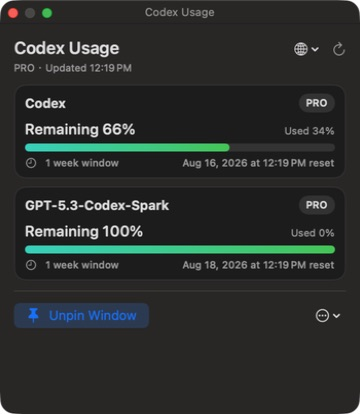
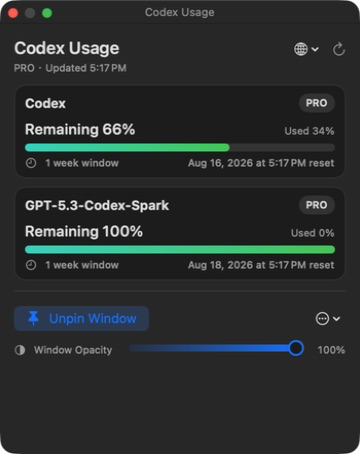
添加浮窗无极透明度控制

diff --git a/Sources/CodexUsageMonitor/Views.swift b/Sources/CodexUsageMonitor/Views.swift
@@ -75,7 +75,7 @@ struct UsagePopoverView: View {
             minWidth: presentation == .floatingPanel ? 360 : 400,
             idealWidth: 400,
             maxWidth: presentation == .floatingPanel ? .infinity : 400,
-            minHeight: 390,
+            minHeight: 430,
             maxHeight: presentation == .floatingPanel ? .infinity : nil,
             alignment: .topLeading
         )
@@ -111,44 +111,62 @@ struct UsagePopoverView: View {
     }
 
     private var controls: some View {
-        HStack(spacing: 8) {
-            Button {
-                if presentation == .menuBar {
-                    FloatingPanelController.shared.show(store: store)
-                } else {
-                    store.toggleWindowPinned()
+        VStack(spacing: 10) {
+            HStack(spacing: 8) {
+                Button {
+                    if presentation == .menuBar {
+                        FloatingPanelController.shared.show(store: store)
+                    } else {
+                        store.toggleWindowPinned()
+                    }
+                } label: {
+                    Label(
+                        presentation == .menuBar
+                            ? l10n.pinWindow
+                            : (store.isWindowPinned ? l10n.unpinWindow : l10n.pinWindow),
+                        systemImage: presentation == .menuBar
+                            ? "pin"
+                            : (store.isWindowPinned ? "pin.fill" : "pin.slash")
+                    )
                 }
-            } label: {
-                Label(
-                    presentation == .menuBar
-                        ? l10n.pinWindow
-                        : (store.isWindowPinned ? l10n.unpinWindow : l10n.pinWindow),
-                    systemImage: presentation == .menuBar
-                        ? "pin"
-                        : (store.isWindowPinned ? "pin.fill" : "pin.slash")
+                .foregroundStyle(
+                    presentation == .menuBar || store.isWindowPinned
+                        ? Color.accentColor
+                        : Color.secondary
                 )
-            }
-            .foregroundStyle(
-                presentation == .menuBar || store.isWindowPinned
-                    ? Color.accentColor
-                    : Color.secondary
-            )
-            Spacer()
-            Menu {
-                Button(l10n.quit) {
-                    NSApplication.shared.terminate(nil)
+                Spacer()
+                Menu {
+                    Button(l10n.quit) {
+                        NSApplication.shared.terminate(nil)
+                    }
+                    Divider()
+                    Button(l10n.uninstall, role: .destructive) {
+                        AppActions.confirmAndUninstall(language: store.language)
+                    }
+                } label: {
+                    Image(systemName: "ellipsis.circle")
                 }
-                Divider()
-                Button(l10n.uninstall, role: .destructive) {
-                    AppActions.confirmAndUninstall(language: store.language)
-                }
-            } label: {
-                Image(systemName: "ellipsis.circle")
+                .menuStyle(.borderlessButton)
+                .fixedSize()
             }
-            .menuStyle(.borderlessButton)
-            .fixedSize()
+
+            HStack(spacing: 9) {
+                Label(l10n.windowOpacity, systemImage: "circle.lefthalf.filled")
+                    .font(.caption)
+                    .foregroundStyle(.secondary)
+                    .fixedSize()
+                OpacityGradientSlider(
+                    value: store.windowOpacity,
+                    accessibilityLabel: l10n.windowOpacity,
+                    onChange: store.setWindowOpacity
+                )
+                Text("\(Int((store.windowOpacity * 100).rounded()))%")
+                    .font(.caption.monospacedDigit())
+                    .foregroundStyle(.secondary)
+                    .frame(width: 34, alignment: .trailing)
+            }
         }
-        .frame(minHeight: 28)
+        .frame(minHeight: 62)
         .padding(.bottom, 4)
     }
 
@@ -328,6 +346,64 @@ private struct UsageGradientProgressBar: View {
     }
 }
 
+private struct OpacityGradientSlider: View {
+    let value: Double
+    let accessibilityLabel: String
+    let onChange: (Double) -> Void
+
+    private let minimum = 0.2
+    private let thumbSize: CGFloat = 14
+
+    var body: some View {
+        GeometryReader { proxy in
+            let availableWidth = max(1, proxy.size.width - thumbSize)
+            let fraction = CGFloat((value - minimum) / (1 - minimum))
+
+            ZStack(alignment: .leading) {
+                Capsule()
+                    .fill(
+                        LinearGradient(
+                            colors: [Color.accentColor.opacity(0.12), Color.accentColor],
+                            startPoint: .leading,
+                            endPoint: .trailing
+                        )
+                    )
+                    .frame(height: 7)
+                    .padding(.horizontal, thumbSize / 2)
+
+                Circle()
+                    .fill(Color(nsColor: .windowBackgroundColor))
+                    .frame(width: thumbSize, height: thumbSize)
+                    .overlay(Circle().stroke(Color.accentColor, lineWidth: 2))
+                    .shadow(color: .black.opacity(0.18), radius: 1, y: 1)
+                    .offset(x: availableWidth * min(1, max(0, fraction)))
+            }
+            .contentShape(Rectangle())
+            .gesture(
+                DragGesture(minimumDistance: 0)
+                    .onChanged { gesture in
+                        let position = min(availableWidth, max(0, gesture.location.x - thumbSize / 2))
+                        onChange(minimum + Double(position / availableWidth) * (1 - minimum))
+                    }
+            )
+        }
+        .frame(minWidth: 80, maxWidth: .infinity, minHeight: 18, maxHeight: 18)
+        .accessibilityElement(children: .ignore)
+        .accessibilityLabel(accessibilityLabel)
+        .accessibilityValue("\(Int((value * 100).rounded()))%")
+        .accessibilityAdjustableAction { direction in
+            switch direction {
+            case .increment:
+                onChange(min(1, value + 0.05))
+            case .decrement:
+                onChange(max(minimum, value - 0.05))
+            @unknown default:
+                break
+            }
+        }
+    }
+}
+
 @MainActor
 final class FloatingPanelController: NSObject, NSWindowDelegate {
     static let shared = FloatingPanelController()
@@ -345,14 +421,14 @@ final class FloatingPanelController: NSObject, NSWindowDelegate {
         let rootView = UsagePopoverView(presentation: .floatingPanel).environmentObject(store)
         let controller = NSHostingController(rootView: rootView)
         let panel = NSPanel(
-            contentRect: NSRect(x: 0, y: 0, width: 400, height: 440),
+            contentRect: NSRect(x: 0, y: 0, width: 400, height: 480),
             styleMask: [.titled, .closable, .resizable, .utilityWindow],
             backing: .buffered,
             defer: false
         )
         panel.title = store.l10n.title
         panel.contentViewController = controller
-        panel.contentMinSize = NSSize(width: 360, height: 420)
+        panel.contentMinSize = NSSize(width: 360, height: 460)
         panel.contentMaxSize = NSSize(width: 720, height: 900)
         panel.level = .floating
         panel.isFloatingPanel = true
@@ -364,6 +440,7 @@ final class FloatingPanelController: NSObject, NSWindowDelegate {
         NSApplication.shared.activate(ignoringOtherApps: true)
         self.panel = panel
         setPinned(store.isWindowPinned)
+        setOpacity(store.windowOpacity)
     }
 
     func windowWillClose(_ notification: Notification) {
@@ -384,6 +461,10 @@ final class FloatingPanelController: NSObject, NSWindowDelegate {
 
     func setPinned(_ isPinned: Bool) {
         panel?.level = isPinned ? .floating : .normal
+    }
+
+    func setOpacity(_ opacity: Double) {
+        panel?.alphaValue = CGFloat(opacity)
     }
 
     private func snapToVisibleScreenEdges() {

diff --git a/Sources/CodexUsageMonitor/UsageStore.swift b/Sources/CodexUsageMonitor/UsageStore.swift
@@ -8,6 +8,7 @@ final class UsageStore: ObservableObject {
     @Published private(set) var isLoading = false
     @Published private(set) var errorMessage: String?
     @Published private(set) var isWindowPinned = true
+    @Published private(set) var windowOpacity: Double
     @Published var refreshInterval: TimeInterval = 60 {
         didSet { restartTimer() }
     }
@@ -19,6 +20,7 @@ final class UsageStore: ObservableObject {
     private var lastMonitorError: UsageMonitorError?
     private let defaults: UserDefaults
     private static let languagePreferenceKey = "preferredAppLanguage"
+    private static let windowOpacityKey = "floatingWindowOpacity"
 
     var l10n: L10n { L10n(language: language) }
 
@@ -30,6 +32,10 @@ final class UsageStore: ObservableObject {
         defaults: UserDefaults = .standard
     ) {
         self.defaults = defaults
+        let savedOpacity = defaults.object(forKey: Self.windowOpacityKey) == nil
+            ? nil
+            : defaults.double(forKey: Self.windowOpacityKey)
+        self.windowOpacity = Self.clampedOpacity(savedOpacity ?? 1)
         if let language {
             self.language = language
         } else if arguments.contains(where: { $0.hasPrefix("--language") })
@@ -75,6 +81,13 @@ final class UsageStore: ObservableObject {
         FloatingPanelController.shared.setPinned(isWindowPinned)
     }
 
+    func setWindowOpacity(_ opacity: Double) {
+        let clamped = Self.clampedOpacity(opacity)
+        windowOpacity = clamped
+        defaults.set(clamped, forKey: Self.windowOpacityKey)
+        FloatingPanelController.shared.setOpacity(clamped)
+    }
+
     func start() {
         guard !hasStarted else { return }
         hasStarted = true
@@ -109,6 +122,10 @@ final class UsageStore: ObservableObject {
             }
         }
         timer?.tolerance = min(10, refreshInterval * 0.1)
+    }
+
+    private static func clampedOpacity(_ value: Double) -> Double {
+        min(1, max(0.2, value))
     }
 
     private static var demoSnapshot: UsageSnapshot {

diff --git a/Tests/CodexUsageMonitorTests/CodexAppServerClientTests.swift b/Tests/CodexUsageMonitorTests/CodexAppServerClientTests.swift
@@ -141,3 +141,24 @@ import Testing
     store.toggleWindowPinned()
     #expect(!store.isWindowPinned)
 }
+
+@MainActor
+@Test func floatingWindowOpacityPersistsAndClamps() {
+    let suiteName = "CodexUsageMonitorTests.\(UUID().uuidString)"
+    let defaults = UserDefaults(suiteName: suiteName)!
+    defer { defaults.removePersistentDomain(forName: suiteName) }
+
+    let firstLaunch = UsageStore(language: .english, arguments: ["app", "--demo"], defaults: defaults)
+    #expect(firstLaunch.windowOpacity == 1)
+
+    firstLaunch.setWindowOpacity(0.553)
+    #expect(firstLaunch.windowOpacity == 0.553)
+
+    let nextLaunch = UsageStore(language: .english, arguments: ["app", "--demo"], defaults: defaults)
+    #expect(nextLaunch.windowOpacity == 0.553)
+
+    nextLaunch.setWindowOpacity(0)
+    #expect(nextLaunch.windowOpacity == 0.2)
+    nextLaunch.setWindowOpacity(2)
+    #expect(nextLaunch.windowOpacity == 1)
+}

diff --git a/Sources/CodexUsageMonitor/Localization.swift b/Sources/CodexUsageMonitor/Localization.swift
@@ -55,6 +55,7 @@ struct L10n: Sendable {
     var pinWindow: String { pick("固定浮窗", "Pin Window") }
     var unpinWindow: String { pick("取消固定", "Unpin Window") }
     var languageMenu: String { pick("语言", "Language") }
+    var windowOpacity: String { pick("浮窗透明度", "Window Opacity") }
     var simplifiedChinese: String { pick("简体中文", "Simplified Chinese") }
     var english: String { pick("英文", "English") }
     var quit: String { pick("退出", "Quit") }

diff --git a/README.md b/README.md
@@ -16,6 +16,7 @@ A small native macOS menu bar app that reads your remaining Codex usage from the
 - Supports Simplified Chinese and English.
 - Detects the macOS preferred language on first launch, then remembers manual language changes.
 - Supports edge snapping, mouse resizing, and an adaptive floating-window layout.
+- Adds a continuous 20–100% floating-window opacity control with a transparent-to-solid gradient track.
 - Uses distinct highlighted/neutral pin icons for pinned and normal window states.
 - Keeps menu bar popover controls fully visible with a compact header language selector.
 - Includes Quit, in-app Uninstall, and a standalone uninstall script.

diff --git a/README.zh-CN.md b/README.zh-CN.md
@@ -16,6 +16,7 @@
 - 支持简体中文和英文。
 - 首次启动自动检测 macOS 首选语言，手动切换后会记住选择。
 - 浮窗支持边缘吸附、鼠标缩放和内容自适应。
+- 底部提供 20%–100% 无极透明度滑块，轨道以透明到实色渐变展示。
 - 固定与非固定状态使用不同颜色和图标，并真实切换窗口置顶层级。
 - 语言切换位于紧凑标题栏，菜单栏弹层底部按钮保持完整可见。
 - 支持退出、应用内卸载和独立卸载脚本。
